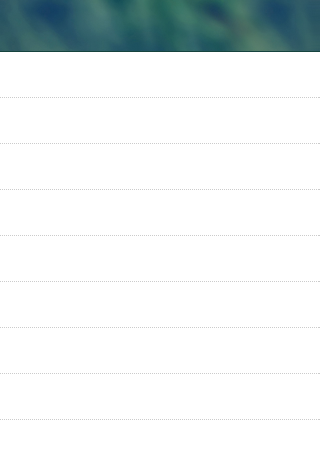
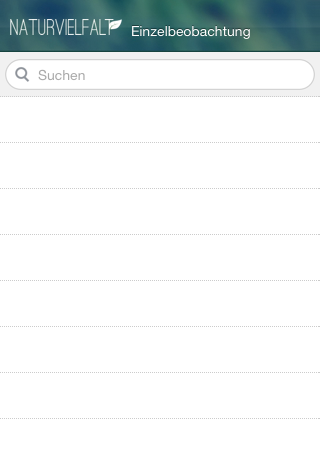
Search and high-res splash
git-svn-id: https://svn.origo.ethz.ch/swissmon/swissmon@712 035473d3-0685-4573-a6ed-08f8c3112c85

diff --git a/application/modules/mobile/index.html b/application/modules/mobile/index.html
@@ -9,7 +9,8 @@
 <meta name="apple-mobile-web-app-capable" content="yes" />
 <meta name="apple-mobile-web-app-status-bar-style" content="black" />
 <link rel="apple-touch-icon-precomposed" href="images/icon.png" />
-<link rel="apple-touch-startup-image" href="images/spash.png" />
+<link rel="apple-touch-startup-image" media="(max-device-width: 480px) and not (-webkit-min-device-pixel-ratio: 2)"  href="images/spash.png" />
+<link rel="apple-touch-startup-image" media="(max-device-width: 480px) and (-webkit-min-device-pixel-ratio: 2)" href="images/spash-large.png" />
 <style>
 body {
     margin: 0;
@@ -132,6 +133,34 @@ body header .icon {
 
 #third .inner {
     padding-top: 3px; 
+}
+
+#search {
+    border: 0;
+    background-image: url("images/search.png");
+    background-size: 320px 44px;
+    border-bottom: 1px dotted #ccc;
+    width: 275px;
+    height: 40px;
+    padding: 3px 10px 1px 35px;
+}
+
+#search input {
+    border: 0;
+    background-color: transparent;
+    width: 275px;
+    height: 40px;
+    padding: 0;
+    font-family: "Helvetica Neue", helvetica, arial, sans-serif;
+    font-size: 0.9em;
+    -webkit-tap-highlight-color: rgba(0, 0, 0, 0);
+}
+
+#clear {
+    position: absolute;
+    top: 64px;
+    left: 288px;
+    display: none;
 }
 
 .content ul {
@@ -266,8 +295,8 @@ function handleError(error) {
     console.log(error);
 }
 
-function scroll(from, to, i) {
-    $('.container').anim({translate: (-i * 320) + 'px, 0'}, 0.5, '', function () {
+function scroll(from, to) {
+    $('.container').anim({translate: '-' + parseInt($(to).css('left')) + 'px, 0'}, 0.5, '', function () {
         $('.active').removeClass('active');
     });
     $(from + ' header').anim({opacity: 0}, 0.3);
@@ -278,12 +307,69 @@ function pad(n){
     return n < 10 ? '0' + n : n;
 }
 
-var current;
+var current, back;
 $(function () {
 
-    $('.inner').css('height', (document.height - 52) + 'px');
+	var height = document.height;
+    $('.inner').css('height', (height - 52) + 'px');
+    $('#content .inner').css('height', (height - 52 - 45) + 'px');
     $('input').bind('focus',function() {
         window.scrollTo(0, 0);
+    });
+
+    $('#alphabet').bind('mousedown touchstart', function(e) {
+        e.preventDefault();
+
+        $('#alphabet').addClass('inuse');
+
+        var alpha = $(e.target).text();
+        $('#second .inner').get(0).scrollTop = $('#second .inner ul li a.alpha-' + alpha).get(0).offsetTop - 52;
+    });
+    $('#alphabet').bind('mousemove touchmove', function(e) {
+        e.preventDefault();
+
+        var position = e.targetTouches ? e.targetTouches[0].pageY : e.pageY;
+        var alpha = String.fromCharCode(Math.max(65, Math.min(90, Math.floor((position - 55) / 11 + 64))));
+        var scroll = $('#second .inner ul li a.alpha-' + alpha).get(0);
+        if (scroll) {
+            $('#second .inner').get(0).scrollTop = scroll.offsetTop - 52;
+        } else {
+            $('#second .inner').get(0).scrollTop = $('#second .inner').height();
+        }
+    });
+    $('#alphabet').bind('mouseup touchend touchcancel', function(e) {
+
+        $('#alphabet').removeClass('inuse');
+    });
+
+    $("#search input").bind('keyup', function () {
+        $('#clear').show();
+
+        var value = $("#search input").val();
+        var html = '<ul>';
+        var count = 0;
+
+        for (var j in db.organisms) {
+            for (var i in db.organisms[j]) {
+
+	        	var element = db.organisms[j][i];
+	        	if (element.de.indexOf(value) > -1) {
+	                html += '<li><a data="' + i + '" data-class="' + j + '">' + (element.de) + '</a></li>';
+	                if (count++ > 100) {
+	                	break;
+	                }
+	        	}
+	        }
+        }
+        html += '</ul>';
+        $('#content .inner').get(0).innerHTML = html;
+        bindOrganisms('#content');
+    });
+    $("#clear").bind('click', function () {
+        $('#search input').val('');
+        $('#content .inner').get(0).innerHTML = '<ul id="classes"></ul>';
+        init();
+        $('#clear').hide();
     });
 
     // set current date
@@ -339,7 +425,7 @@ $(function () {
 	        request = $.ajax({type: 'POST', url: 'ajax.php', data: data, success: function (data) {
 	    		if (data) { // needed for iOS
 		            alert(data);
-		            scroll('#third', '#content', 0);
+		            scroll('#third', '#content');
 	    		}
 	            $('.active').removeClass('active');
 	        }, error: function (xhr, type) {
@@ -350,11 +436,11 @@ $(function () {
     });
 
     $('#second header a.back').bind('click', function (e) {
-        scroll('#second', '#content', 0);
+        scroll('#second', '#content');
         $('.active').removeClass('active');
     });
     $('#third header a.back').bind('click', function (e) {
-        scroll('#third', '#second', 1);
+        scroll('#third', back);
     });
     
     if (navigator.geolocation) {
@@ -364,37 +450,30 @@ $(function () {
     }
 });
 
+function bindOrganisms(path) {
+
+    $(path + ' .inner ul a').bind('click', function (e) {
+        $(e.target).addClass('active');
+
+        // update organism name
+        var id = $(e.target).attr('data');
+        var c = $(e.target).attr('data-class');
+        $('#id').val(id);
+        $('#organism').text(db.organisms[c][id].de);
+
+        // update map with fresh coordinates
+        updateMap();
+
+        back = path;
+        scroll(path, '#third');
+    });
+}
+
 function init() {
 
-	db.rendered = {};
-    for (var i in db.classes) {
+	for (var i in db.classes) {
         $('#classes').append('<li><a data="' + i + '">' + db.classes[i] + '</a></li>');
     }
-
-    $('#alphabet').bind('mousedown touchstart', function(e) {
-        e.preventDefault();
-
-        $('#alphabet').addClass('inuse');
-
-    	var alpha = $(e.target).text();
-        $('#second .inner').get(0).scrollTop = $('#second .inner ul li a.alpha-' + alpha).get(0).offsetTop - 52;
-    });
-    $('#alphabet').bind('mousemove touchmove', function(e) {
-        e.preventDefault();
-
-        var position = e.targetTouches ? e.targetTouches[0].pageY : e.pageY;
-        var alpha = String.fromCharCode(Math.max(65, Math.min(90, Math.floor((position - 55) / 11 + 64))));
-        var scroll = $('#second .inner ul li a.alpha-' + alpha).get(0);
-        if (scroll) {
-            $('#second .inner').get(0).scrollTop = scroll.offsetTop - 52;
-        } else {
-            $('#second .inner').get(0).scrollTop = $('#second .inner').height();
-        }
-    });
-    $('#alphabet').bind('mouseup touchend touchcancel', function(e) {
-
-        $('#alphabet').removeClass('inuse');
-    });
 
     $('#content a').bind('click', function (e) {
 
@@ -406,7 +485,7 @@ function init() {
 	        for (var j in db.organisms[current]) {
 
 	            var organism = db.organisms[current][j];
-	            html += '<li><a data="' + j + '" class="' + organism.css + '">' + (organism.de) + '</a></li>';
+	            html += '<li><a data="' + j + '" data-class="' + current + '" class="' + organism.css + '">' + (organism.de) + '</a></li>';
 	        }
 	        html += '</ul>';
 	        $('#second .inner').get(0).innerHTML = html;
@@ -414,21 +493,9 @@ function init() {
 	        $('#second .inner').get(0).scrollTop = 0;
 	        $('#class').text(db.classes[current]);
 
-	        $('#second .inner ul a').bind('click', function (e) {
-	            $(e.target).addClass('active');
+	        bindOrganisms('#second');
 
-	            // update organism name
-	            var id = $(e.target).attr('data');
-	            $('#id').val(id);
-	            $('#organism').text(db.organisms[current][id].de);
-
-	            // update map with fresh coordinates
-	            updateMap();
-
-	            scroll('#second', '#third', 2);
-	        });
-	
-	        scroll('#content', '#second', 1);
+	        scroll('#content', '#second');
         }, 100);
     });
 }
@@ -450,6 +517,10 @@ $.post('data.php', {}, function (data) {
             <img src="images/logo.png" alt="Naturvielfalt" width="112" height="16" />
             <h2>Einzelbeobachtung</h2>
         </header>
+        <div id="search">
+	        <input placeholder="Suchen" />
+	        <img src="images/clear.png" width="20" height="20" id="clear" />
+        </div>
         <div class="inner">
 	        <ul id="classes">
 	        </ul>
@@ -503,8 +574,8 @@ $.post('data.php', {}, function (data) {
         </header>
         <div class="inner">
 	        <p class="input"><label for="date">Name: </label><span id="organism"></span></p>
-	        <p class="input"><label for="date">Zeit: </label><input id="date" type="datetime" value="2011-07-28T14:00" /></p>
-	        <p><label for="count">Anzahl: </label><input id="count" type="number" min="1" step="1" value="1" size="4" /></p>
+	        <p class="input"><label for="date">Zeit: </label><input id="date" type="datetime" value="2011-07-28T14:00" disabled="disabled" /></p>
+	        <p><label for="count">Anzahl: </label><input id="count" type="number" min="1" step="1" value="1" size="4" disabled="disabled" /></p>
             <div id="map"><div id="accuracy"></div><img src="http://maps.google.com/maps/api/staticmap?zoom=13&amp;size=320x150&amp;scale=2&amp;center=47.48123591999999,8.20960172764706&amp;sensor=false" width="320" height="150" /></div>
             <input id="location" type="hidden" value="" /><input id="id" type="hidden" value="" />
         </div>
